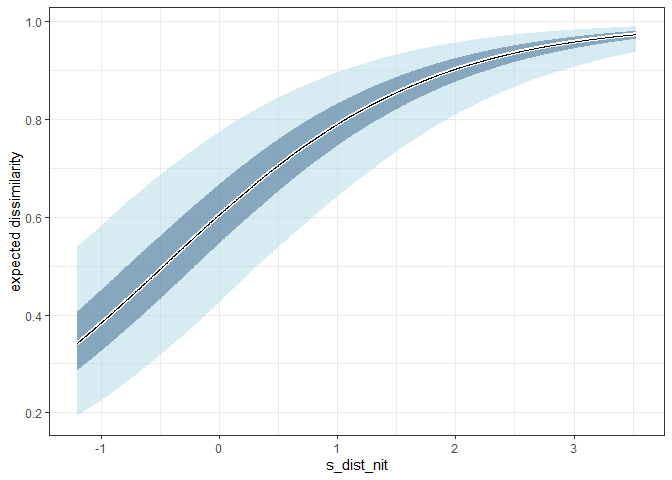
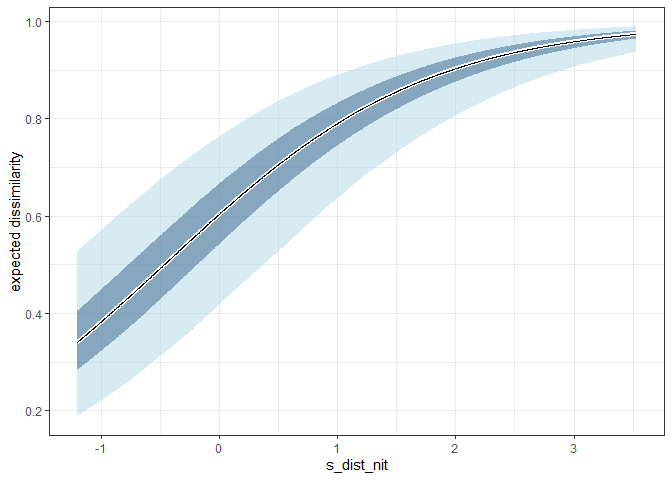
fiz readme

diff --git a/README.md b/README.md
@@ -1,13 +1,13 @@
 Untitled
 ================
 
-# Fitting GDUMs in greta
+# Fitting GDUMs in `greta`
 
-Here we show how to fit and inspect Generalised Dissimilarity Uniqueness
-Models (DGUM) using greta. We provide some helper functions to construct
-the models and generate predictions.This scripts assumes that a folder
-named `functions` exists in the working directory with the helper
-functions provided [here](link).
+Here we show how to fit and inspect Generalized Dissimilarity Uniqueness
+Models (DGUM) using `greta`. We provide some helper functions to
+construct the models and generate predictions.This scripts assumes that
+a folder named `functions` exists in the working directory with the
+helper functions provided [here](link%20to%20DOI).
 
 ``` r
 # Load functions
@@ -39,9 +39,12 @@ Doubs river.
 
 ``` r
 # Load datasets
-doubs.spe <- read.csv('https://raw.githubusercontent.com/zdealveindy/anadat-r/master/data/DoubsSpe.csv', row.names = 1)
-doubs.env <- read.csv('https://raw.githubusercontent.com/zdealveindy/anadat-r/master/data/DoubsEnv.csv', row.names = 1)
-doubs.spa <- read.csv('https://raw.githubusercontent.com/zdealveindy/anadat-r/master/data/DoubsSpa.csv', row.names = 1)
+doubs.spe <- read.csv('https://raw.githubusercontent.com/zdealveindy/anadat-r/master/data/DoubsSpe.csv', 
+                      row.names = 1)
+doubs.env <- read.csv('https://raw.githubusercontent.com/zdealveindy/anadat-r/master/data/DoubsEnv.csv', 
+                      row.names = 1)
+doubs.spa <- read.csv('https://raw.githubusercontent.com/zdealveindy/anadat-r/master/data/DoubsSpa.csv', 
+                      row.names = 1)
 ```
 
 doubs.spe
@@ -106,13 +109,13 @@ in long format. Different options are available, including:
 
 - Methods available in `vegan::vegdist()`:
   `make_y_df(data, method = 'bray')`
-- Numerator-denominator versions of Sorensen and Jaccard indices:
+- Numerator-denominator versions of Sørensen-Dice and Jaccard indices:
   `make_y_df(data, method = 'jaccard', num_den = TRUE)`
 - Full matrix of shared and unshared species between samples:
   `make_y_df(data, method = 'abcd')`
 
-We generate different Y matrices to show how GDUM can handle different
-families
+We generate different matrices to show how GDUM can handle different
+response variables.
 
 ``` r
 Y_bin <- make_y_df(com = doubs.spe, method = 'sorensen', num_den = TRUE)
@@ -160,17 +163,17 @@ all.equal(X[,c('s1','s2')],Y_bin[,c('s1','s2')])
 
 ## Fitting models
 
-We provide a function (`fit_gdum()`) to help built GDUMs in `greta`. By
+We provide a function `fit_gdum()` to help built GDUMs in `greta`. By
 deafault, `fit_gdum()` uses uninformative priors that expect predictors
-to be scaled. In this example, we use nitrogen concentration as a
-pairwise predictor and dbo as a site-level effect.
+to be scaled. In this example, we use nitrogen (nit) concentration as a
+pairwise predictor and pH as a site-level effect.
 
 ``` r
 X$s_dist_nit <- scale(X$dist_nit)
-doubs.env$s_dbo <- scale(log(doubs.env$dbo))
+doubs.env$s_pH <- scale(doubs.env$pH)
 ```
 
-In addition, a design matrix `D` indicating which sites are ocmpared in
+In addition, a design matrix `D` indicating which sites are compared in
 each row is required to match dissimilarities with pairwise- and
 site-level predictor.
 
@@ -188,7 +191,7 @@ m_gaus <- fit_gdum(Y = Y_bray[,3], # Dissimilarities
          family = 'gaussian',
          link = 'identity',
          diss_formula = ~ s_dist_nit, # pairwise level formula 
-         site_formula = ~ dbo, # site level formula
+         site_formula = ~ s_pH, # site level formula
          warmup = 2000, # mcmc warm up
          n_samples = 4000, # samples taken after warm up
          Lmin = 15, 
@@ -223,45 +226,45 @@ coda::gelman.diag(m_gaus$draws)
     ## Potential scale reduction factors:
     ## 
     ##                 Point est. Upper C.I.
-    ## alpha                 1.01       1.02
-    ## SD_s                  1.00       1.01
-    ## sigma                 1.00       1.00
-    ## beta_s_dist_nit       1.00       1.00
-    ## lambda_dbo            1.01       1.02
-    ## e_s[1,1]              1.00       1.01
-    ## e_s[2,1]              1.01       1.02
-    ## e_s[3,1]              1.01       1.02
-    ## e_s[4,1]              1.01       1.02
-    ## e_s[5,1]              1.00       1.01
-    ## e_s[6,1]              1.01       1.03
-    ## e_s[7,1]              1.01       1.01
-    ## e_s[8,1]              1.01       1.03
-    ## e_s[9,1]              1.01       1.02
-    ## e_s[10,1]             1.01       1.02
-    ## e_s[11,1]             1.01       1.02
-    ## e_s[12,1]             1.01       1.02
-    ## e_s[13,1]             1.00       1.01
-    ## e_s[14,1]             1.01       1.02
-    ## e_s[15,1]             1.01       1.01
-    ## e_s[16,1]             1.01       1.01
-    ## e_s[17,1]             1.01       1.03
-    ## e_s[18,1]             1.01       1.02
-    ## e_s[19,1]             1.01       1.01
-    ## e_s[20,1]             1.00       1.01
-    ## e_s[21,1]             1.00       1.01
-    ## e_s[22,1]             1.02       1.06
-    ## e_s[23,1]             1.01       1.03
-    ## e_s[24,1]             1.01       1.03
-    ## e_s[25,1]             1.01       1.02
-    ## e_s[26,1]             1.01       1.02
-    ## e_s[27,1]             1.01       1.02
-    ## e_s[28,1]             1.01       1.02
-    ## e_s[29,1]             1.01       1.02
-    ## e_s[30,1]             1.02       1.05
+    ## alpha                    1       1.00
+    ## SD_s                     1       1.01
+    ## sigma                    1       1.00
+    ## beta_s_dist_nit          1       1.00
+    ## lambda_s_pH              1       1.00
+    ## e_s[1,1]                 1       1.00
+    ## e_s[2,1]                 1       1.00
+    ## e_s[3,1]                 1       1.01
+    ## e_s[4,1]                 1       1.00
+    ## e_s[5,1]                 1       1.00
+    ## e_s[6,1]                 1       1.00
+    ## e_s[7,1]                 1       1.00
+    ## e_s[8,1]                 1       1.00
+    ## e_s[9,1]                 1       1.00
+    ## e_s[10,1]                1       1.00
+    ## e_s[11,1]                1       1.00
+    ## e_s[12,1]                1       1.00
+    ## e_s[13,1]                1       1.00
+    ## e_s[14,1]                1       1.00
+    ## e_s[15,1]                1       1.00
+    ## e_s[16,1]                1       1.00
+    ## e_s[17,1]                1       1.00
+    ## e_s[18,1]                1       1.00
+    ## e_s[19,1]                1       1.01
+    ## e_s[20,1]                1       1.00
+    ## e_s[21,1]                1       1.01
+    ## e_s[22,1]                1       1.00
+    ## e_s[23,1]                1       1.00
+    ## e_s[24,1]                1       1.00
+    ## e_s[25,1]                1       1.00
+    ## e_s[26,1]                1       1.00
+    ## e_s[27,1]                1       1.00
+    ## e_s[28,1]                1       1.00
+    ## e_s[29,1]                1       1.00
+    ## e_s[30,1]                1       1.00
     ## 
     ## Multivariate psrf
     ## 
-    ## 1.04
+    ## 1.01
 
 In our case, all values are relatively small ($\geq 1.01$) indicating
 that chains have succesfully converged.
@@ -273,12 +276,12 @@ parameter
 summary(m_gaus$draws)[[1]][1:5,]
 ```
 
-    ##                         Mean          SD     Naive SE Time-series SE
-    ## alpha            0.642809431 0.084567313 6.685633e-04   4.539311e-03
-    ## SD_s             0.135790236 0.021235703 1.678830e-04   5.755833e-04
-    ## sigma            0.187553460 0.006634300 5.244875e-05   6.845538e-05
-    ## beta_s_dist_nit  0.167638521 0.013465504 1.064542e-04   1.473987e-04
-    ## lambda_dbo      -0.001445939 0.006861546 5.424529e-05   2.517917e-04
+    ##                        Mean          SD     Naive SE Time-series SE
+    ## alpha           0.630403872 0.050203882 3.968965e-04   5.891248e-04
+    ## SD_s            0.134939475 0.020694808 1.636068e-04   2.694513e-04
+    ## sigma           0.187602791 0.006595838 5.214468e-05   8.003544e-05
+    ## beta_s_dist_nit 0.167340772 0.013244816 1.047095e-04   1.723781e-04
+    ## lambda_s_pH     0.008054158 0.026125398 2.065394e-04   2.529993e-04
 
 - `sigma` is the standard deviation of the normally distributed
   residuals
@@ -304,7 +307,7 @@ m_beta <- fit_gdum(Y = Y_bray$diss2,
          family = 'beta',
          link = 'logit',
          diss_formula = ~ s_dist_nit,
-         site_formula = ~ dbo,
+         site_formula = ~ s_pH,
          warmup = 2000,
          n_samples = 4000,
          Lmin = 15,
@@ -315,12 +318,12 @@ m_beta <- fit_gdum(Y = Y_bray$diss2,
 summary(m_beta$draws)[[1]][1:5,]
 ```
 
-    ##                        Mean         SD     Naive SE Time-series SE
-    ## alpha           0.602169670 0.45007733 0.0035581738   0.0099360090
-    ## SD_s            0.815576113 0.12120560 0.0009582144   0.0016163943
-    ## phi             4.987557346 0.34278004 0.0027099141   0.0033175547
-    ## beta_s_dist_nit 0.811409197 0.06673688 0.0005276014   0.0006406695
-    ## lambda_dbo      0.006004119 0.03792907 0.0002998556   0.0006199874
+    ##                       Mean         SD     Naive SE Time-series SE
+    ## alpha           0.65803477 0.29297989 0.0023162094   0.0036251243
+    ## SD_s            0.81557566 0.12069991 0.0009542166   0.0015750909
+    ## phi             4.97880531 0.34467349 0.0027248832   0.0068935729
+    ## beta_s_dist_nit 0.81264265 0.06763226 0.0005346799   0.0006433403
+    ## lambda_s_pH     0.04301759 0.15374221 0.0012154389   0.0015254916
 
 Instead of `sigma`, `phi` is the scale parameter of the beta
 distribution. The larger the value of `phi`, the narrower the
@@ -342,7 +345,7 @@ m_bin <- fit_gdum(Y = Y_bin$num_sor, # Dissimilarity (numerator: b + c)
          family = 'binomial',
          link = 'logit',
          diss_formula = ~ s_dist_nit,
-         site_formula = ~ dbo,
+         site_formula = ~ s_pH,
          warmup = 2000,
          n_samples = 4000,
          Lmin = 10,
@@ -353,21 +356,18 @@ m_bin <- fit_gdum(Y = Y_bin$num_sor, # Dissimilarity (numerator: b + c)
 summary(m_bin$draws)[[1]][1:4,]
 ```
 
-    ##                      Mean         SD     Naive SE Time-series SE
-    ## alpha           0.4830235 0.59770395 0.0047252646   0.0514787893
-    ## SD_s            1.3323207 0.19778360 0.0015636167   0.0076574601
-    ## beta_s_dist_nit 0.9538962 0.04013922 0.0003173284   0.0006318867
-    ## lambda_dbo      0.0134385 0.05770977 0.0004562358   0.0038424096
+    ##                       Mean         SD     Naive SE Time-series SE
+    ## alpha           0.59733609 0.44307789 0.0035028383   0.0245509368
+    ## SD_s            1.33190685 0.20943654 0.0016557413   0.0070029789
+    ## beta_s_dist_nit 0.95363949 0.04059751 0.0003209515   0.0005036378
+    ## lambda_s_pH     0.07504937 0.24392231 0.0019283752   0.0098507196
 
-The binomial distribution does not contain any scale parameter because a
-specific relationship between the variance, and the number of trials
-(denominator), and the probability of success (estimated dissimilarity)
-is expected.
+The binomial distribution does not contain any scale parameter.
 
 #### Beta binomial distribution
 
-The beta-binomial distribution can be useful when the data is over- or
-under-dispersed compared to the binomial distribution.
+The beta-binomial distribution can be useful when the data is
+overdispersed compared to the binomial distribution.
 
 ``` r
 m_bbin <- fit_gdum(Y = Y_bin$num_sor, # Dissimilarity matrix (numerator: b + c)
@@ -378,7 +378,7 @@ m_bbin <- fit_gdum(Y = Y_bin$num_sor, # Dissimilarity matrix (numerator: b + c)
          family = 'betabinomial',
          link = 'logit',
          diss_formula = ~ s_dist_nit,
-         site_formula = ~ s_dbo,
+         site_formula = ~ s_pH,
          warmup = 2000,
          n_samples = 4000,
          Lmin = 10,
@@ -389,8 +389,8 @@ m_bbin <- fit_gdum(Y = Y_bin$num_sor, # Dissimilarity matrix (numerator: b + c)
 
     ## 
 
-    ##     warmup                                           0/2000 | eta:  ?s              warmup =                                        50/2000 | eta:  1m              warmup ==                                      100/2000 | eta: 41s              warmup ===                                     150/2000 | eta: 35s              warmup ====                                    200/2000 | eta: 31s              warmup =====                                   250/2000 | eta: 29s              warmup ======                                  300/2000 | eta: 28s              warmup =======                                 350/2000 | eta: 27s              warmup ========                                400/2000 | eta: 25s              warmup =========                               450/2000 | eta: 24s              warmup ==========                              500/2000 | eta: 23s              warmup ==========                              550/2000 | eta: 22s              warmup ===========                             600/2000 | eta: 22s              warmup ============                            650/2000 | eta: 21s              warmup =============                           700/2000 | eta: 20s              warmup ==============                          750/2000 | eta: 19s              warmup ===============                         800/2000 | eta: 18s              warmup ================                        850/2000 | eta: 17s | <1% bad    warmup =================                       900/2000 | eta: 17s | <1% bad    warmup ==================                      950/2000 | eta: 16s | <1% bad    warmup ===================                    1000/2000 | eta: 15s | <1% bad    warmup ====================                   1050/2000 | eta: 14s | <1% bad    warmup =====================                  1100/2000 | eta: 14s | <1% bad    warmup ======================                 1150/2000 | eta: 13s | <1% bad    warmup =======================                1200/2000 | eta: 12s | <1% bad    warmup ========================               1250/2000 | eta: 11s | <1% bad    warmup =========================              1300/2000 | eta: 10s | <1% bad    warmup ==========================             1350/2000 | eta: 10s | <1% bad    warmup ===========================            1400/2000 | eta:  9s | <1% bad    warmup ============================           1450/2000 | eta:  8s | <1% bad    warmup ============================           1500/2000 | eta:  7s | <1% bad    warmup =============================          1550/2000 | eta:  7s | <1% bad    warmup ==============================         1600/2000 | eta:  6s | <1% bad    warmup ===============================        1650/2000 | eta:  5s | <1% bad    warmup ================================       1700/2000 | eta:  4s | <1% bad    warmup =================================      1750/2000 | eta:  4s | <1% bad    warmup ==================================     1800/2000 | eta:  3s | <1% bad    warmup ===================================    1850/2000 | eta:  2s | <1% bad    warmup ====================================   1900/2000 | eta:  1s | <1% bad    warmup =====================================  1950/2000 | eta:  1s | <1% bad    warmup ====================================== 2000/2000 | eta:  0s | <1% bad
-    ##   sampling                                           0/4000 | eta:  ?s            sampling                                          50/4000 | eta:  1m            sampling =                                       100/4000 | eta:  1m            sampling =                                       150/4000 | eta:  1m            sampling ==                                      200/4000 | eta:  1m            sampling ==                                      250/4000 | eta:  1m            sampling ===                                     300/4000 | eta:  1m            sampling ===                                     350/4000 | eta:  1m            sampling ====                                    400/4000 | eta:  1m            sampling ====                                    450/4000 | eta:  1m            sampling =====                                   500/4000 | eta:  1m            sampling =====                                   550/4000 | eta:  1m            sampling ======                                  600/4000 | eta:  1m            sampling ======                                  650/4000 | eta:  1m            sampling =======                                 700/4000 | eta:  1m            sampling =======                                 750/4000 | eta:  1m            sampling ========                                800/4000 | eta:  1m            sampling ========                                850/4000 | eta:  1m            sampling =========                               900/4000 | eta:  1m            sampling =========                               950/4000 | eta:  1m            sampling ==========                             1000/4000 | eta:  1m            sampling ==========                             1050/4000 | eta: 50s            sampling ==========                             1100/4000 | eta: 49s            sampling ===========                            1150/4000 | eta: 48s            sampling ===========                            1200/4000 | eta: 47s            sampling ============                           1250/4000 | eta: 46s            sampling ============                           1300/4000 | eta: 45s            sampling =============                          1350/4000 | eta: 44s            sampling =============                          1400/4000 | eta: 43s            sampling ==============                         1450/4000 | eta: 43s            sampling ==============                         1500/4000 | eta: 42s            sampling ===============                        1550/4000 | eta: 41s            sampling ===============                        1600/4000 | eta: 40s            sampling ================                       1650/4000 | eta: 39s            sampling ================                       1700/4000 | eta: 38s            sampling =================                      1750/4000 | eta: 38s            sampling =================                      1800/4000 | eta: 37s            sampling ==================                     1850/4000 | eta: 36s            sampling ==================                     1900/4000 | eta: 36s            sampling ===================                    1950/4000 | eta: 35s            sampling ===================                    2000/4000 | eta: 34s            sampling ===================                    2050/4000 | eta: 33s            sampling ====================                   2100/4000 | eta: 32s            sampling ====================                   2150/4000 | eta: 31s            sampling =====================                  2200/4000 | eta: 30s            sampling =====================                  2250/4000 | eta: 29s            sampling ======================                 2300/4000 | eta: 29s            sampling ======================                 2350/4000 | eta: 28s            sampling =======================                2400/4000 | eta: 27s            sampling =======================                2450/4000 | eta: 26s            sampling ========================               2500/4000 | eta: 25s            sampling ========================               2550/4000 | eta: 24s            sampling =========================              2600/4000 | eta: 24s            sampling =========================              2650/4000 | eta: 23s            sampling ==========================             2700/4000 | eta: 22s            sampling ==========================             2750/4000 | eta: 21s            sampling ===========================            2800/4000 | eta: 20s            sampling ===========================            2850/4000 | eta: 19s            sampling ============================           2900/4000 | eta: 18s            sampling ============================           2950/4000 | eta: 18s            sampling ============================           3000/4000 | eta: 17s            sampling =============================          3050/4000 | eta: 16s            sampling =============================          3100/4000 | eta: 15s            sampling ==============================         3150/4000 | eta: 14s            sampling ==============================         3200/4000 | eta: 13s            sampling ===============================        3250/4000 | eta: 13s            sampling ===============================        3300/4000 | eta: 12s            sampling ================================       3350/4000 | eta: 11s            sampling ================================       3400/4000 | eta: 10s            sampling =================================      3450/4000 | eta:  9s            sampling =================================      3500/4000 | eta:  8s            sampling ==================================     3550/4000 | eta:  8s            sampling ==================================     3600/4000 | eta:  7s            sampling ===================================    3650/4000 | eta:  6s            sampling ===================================    3700/4000 | eta:  5s            sampling ====================================   3750/4000 | eta:  4s            sampling ====================================   3800/4000 | eta:  3s            sampling =====================================  3850/4000 | eta:  3s            sampling =====================================  3900/4000 | eta:  2s            sampling ====================================== 3950/4000 | eta:  1s            sampling ====================================== 4000/4000 | eta:  0s
+    ##     warmup                                           0/2000 | eta:  ?s              warmup =                                        50/2000 | eta:  1m              warmup ==                                      100/2000 | eta: 43s              warmup ===                                     150/2000 | eta: 37s              warmup ====                                    200/2000 | eta: 34s              warmup =====                                   250/2000 | eta: 31s              warmup ======                                  300/2000 | eta: 30s              warmup =======                                 350/2000 | eta: 29s              warmup ========                                400/2000 | eta: 28s              warmup =========                               450/2000 | eta: 26s              warmup ==========                              500/2000 | eta: 25s              warmup ==========                              550/2000 | eta: 24s              warmup ===========                             600/2000 | eta: 23s              warmup ============                            650/2000 | eta: 22s              warmup =============                           700/2000 | eta: 21s              warmup ==============                          750/2000 | eta: 21s              warmup ===============                         800/2000 | eta: 20s              warmup ================                        850/2000 | eta: 19s | <1% bad    warmup =================                       900/2000 | eta: 18s | <1% bad    warmup ==================                      950/2000 | eta: 17s | <1% bad    warmup ===================                    1000/2000 | eta: 16s | <1% bad    warmup ====================                   1050/2000 | eta: 15s | <1% bad    warmup =====================                  1100/2000 | eta: 14s | <1% bad    warmup ======================                 1150/2000 | eta: 14s | <1% bad    warmup =======================                1200/2000 | eta: 13s | <1% bad    warmup ========================               1250/2000 | eta: 12s | <1% bad    warmup =========================              1300/2000 | eta: 11s | <1% bad    warmup ==========================             1350/2000 | eta: 10s | <1% bad    warmup ===========================            1400/2000 | eta: 10s | <1% bad    warmup ============================           1450/2000 | eta:  9s | <1% bad    warmup ============================           1500/2000 | eta:  8s | <1% bad    warmup =============================          1550/2000 | eta:  7s | <1% bad    warmup ==============================         1600/2000 | eta:  6s | <1% bad    warmup ===============================        1650/2000 | eta:  6s | <1% bad    warmup ================================       1700/2000 | eta:  5s | <1% bad    warmup =================================      1750/2000 | eta:  4s | <1% bad    warmup ==================================     1800/2000 | eta:  3s | <1% bad    warmup ===================================    1850/2000 | eta:  2s | <1% bad    warmup ====================================   1900/2000 | eta:  2s | <1% bad    warmup =====================================  1950/2000 | eta:  1s | <1% bad    warmup ====================================== 2000/2000 | eta:  0s | <1% bad
+    ##   sampling                                           0/4000 | eta:  ?s            sampling                                          50/4000 | eta:  1m            sampling =                                       100/4000 | eta:  1m            sampling =                                       150/4000 | eta:  1m            sampling ==                                      200/4000 | eta:  1m            sampling ==                                      250/4000 | eta:  1m            sampling ===                                     300/4000 | eta:  1m            sampling ===                                     350/4000 | eta:  1m            sampling ====                                    400/4000 | eta:  1m            sampling ====                                    450/4000 | eta:  1m            sampling =====                                   500/4000 | eta:  1m            sampling =====                                   550/4000 | eta:  1m            sampling ======                                  600/4000 | eta:  1m            sampling ======                                  650/4000 | eta:  1m            sampling =======                                 700/4000 | eta:  1m            sampling =======                                 750/4000 | eta:  1m            sampling ========                                800/4000 | eta:  1m            sampling ========                                850/4000 | eta:  1m            sampling =========                               900/4000 | eta:  1m            sampling =========                               950/4000 | eta:  1m            sampling ==========                             1000/4000 | eta:  1m            sampling ==========                             1050/4000 | eta: 49s            sampling ==========                             1100/4000 | eta: 48s            sampling ===========                            1150/4000 | eta: 47s            sampling ===========                            1200/4000 | eta: 47s            sampling ============                           1250/4000 | eta: 46s            sampling ============                           1300/4000 | eta: 45s            sampling =============                          1350/4000 | eta: 44s            sampling =============                          1400/4000 | eta: 43s            sampling ==============                         1450/4000 | eta: 42s            sampling ==============                         1500/4000 | eta: 41s            sampling ===============                        1550/4000 | eta: 41s            sampling ===============                        1600/4000 | eta: 40s            sampling ================                       1650/4000 | eta: 39s            sampling ================                       1700/4000 | eta: 38s            sampling =================                      1750/4000 | eta: 37s            sampling =================                      1800/4000 | eta: 36s            sampling ==================                     1850/4000 | eta: 36s            sampling ==================                     1900/4000 | eta: 35s            sampling ===================                    1950/4000 | eta: 34s            sampling ===================                    2000/4000 | eta: 33s            sampling ===================                    2050/4000 | eta: 32s            sampling ====================                   2100/4000 | eta: 31s            sampling ====================                   2150/4000 | eta: 30s            sampling =====================                  2200/4000 | eta: 29s            sampling =====================                  2250/4000 | eta: 29s            sampling ======================                 2300/4000 | eta: 28s            sampling ======================                 2350/4000 | eta: 27s            sampling =======================                2400/4000 | eta: 26s            sampling =======================                2450/4000 | eta: 25s            sampling ========================               2500/4000 | eta: 25s            sampling ========================               2550/4000 | eta: 24s            sampling =========================              2600/4000 | eta: 23s            sampling =========================              2650/4000 | eta: 22s            sampling ==========================             2700/4000 | eta: 21s            sampling ==========================             2750/4000 | eta: 21s            sampling ===========================            2800/4000 | eta: 20s            sampling ===========================            2850/4000 | eta: 19s            sampling ============================           2900/4000 | eta: 18s            sampling ============================           2950/4000 | eta: 17s            sampling ============================           3000/4000 | eta: 17s            sampling =============================          3050/4000 | eta: 16s            sampling =============================          3100/4000 | eta: 15s            sampling ==============================         3150/4000 | eta: 14s            sampling ==============================         3200/4000 | eta: 13s            sampling ===============================        3250/4000 | eta: 12s            sampling ===============================        3300/4000 | eta: 12s            sampling ================================       3350/4000 | eta: 11s            sampling ================================       3400/4000 | eta: 10s            sampling =================================      3450/4000 | eta:  9s            sampling =================================      3500/4000 | eta:  8s            sampling ==================================     3550/4000 | eta:  7s            sampling ==================================     3600/4000 | eta:  7s            sampling ===================================    3650/4000 | eta:  6s            sampling ===================================    3700/4000 | eta:  5s            sampling ====================================   3750/4000 | eta:  4s            sampling ====================================   3800/4000 | eta:  3s            sampling =====================================  3850/4000 | eta:  2s            sampling =====================================  3900/4000 | eta:  2s            sampling ====================================== 3950/4000 | eta:  1s            sampling ====================================== 4000/4000 | eta:  0s
 
 ``` r
 bayesplot::mcmc_trace(m_bbin$draws, regex_pars = c('alpha','beta','lambda'))
@@ -402,12 +402,12 @@ bayesplot::mcmc_trace(m_bbin$draws, regex_pars = c('alpha','beta','lambda'))
 summary(m_bbin$draws)[[1]][1:5,]
 ```
 
-    ##                        Mean         SD     Naive SE Time-series SE
-    ## alpha            0.43541452 0.39168105 0.0030965105   0.0086048185
-    ## SD_s             1.13491801 0.18548142 0.0014663594   0.0031714993
-    ## phi              7.18693542 0.71577404 0.0056586907   0.0066424209
-    ## beta_s_dist_nit  0.90172565 0.07407277 0.0005855967   0.0006727613
-    ## lambda_s_dbo    -0.01755615 0.21035328 0.0016629887   0.0034938885
+    ##                       Mean         SD    Naive SE Time-series SE
+    ## alpha           0.43053924 0.39006455 0.003083731   0.0086472668
+    ## SD_s            1.13367058 0.17794240 0.001406758   0.0027695272
+    ## phi             7.17915318 0.71547145 0.005656298   0.0067491934
+    ## beta_s_dist_nit 0.90335260 0.07359366 0.000581809   0.0006544959
+    ## lambda_s_pH     0.05386084 0.20677573 0.001634706   0.0034388740
 
 ## Predictions and partial effects
 
@@ -421,7 +421,8 @@ from the fitted model using the `predict_gdum()` function.
 u_pred <- predict_gdum(m_gaus, response = 'uniqueness')
 ```
 
-We can compare those with the ones obtained with `adespatial::`
+We can compare those with the ones obtained with `adespatial::` and map
+the values across the river:
 
 ``` r
 u_pred <- data.frame(u_pred, lcbd = adespatial::LCBD.comp(vegan::vegdist(log1p(doubs.spe)))$LCBD)
@@ -473,8 +474,6 @@ ggplot(u_pred, aes(x = lcbd, y = `X50.`/sum(`X50.`))) +
 
 ![](README_files/figure-gfm/unnamed-chunk-24-1.png)<!-- -->
 
-And map the values in space
-
 ``` r
 ggplot(cbind(u_pred, doubs.spa) ,aes( x = x, y = y)) + 
   theme_void() +
@@ -487,7 +486,8 @@ ggplot(cbind(u_pred, doubs.spa) ,aes( x = x, y = y)) +
 ![](README_files/figure-gfm/unnamed-chunk-25-1.png)<!-- -->
 
 Similarly, we can obtain the expected $u$ values when the site-level
-random effect is set to 0
+random effect is set to 0, indicating the expected site uniqueness given
+the combination of predictors in each site.
 
 ``` r
 u_pred <- predict_gdum(m_gaus, response = 'uniqueness', re = FALSE)
@@ -502,7 +502,8 @@ ggplot(cbind(u_pred, doubs.spa) ,aes( x = x, y = y)) +
 
 ![](README_files/figure-gfm/unnamed-chunk-26-1.png)<!-- -->
 
-Or when controlling for the environmental gradient (`s_dist_nit`)
+Similarly, we can control for nitrogen concentration (`s_dist_nit`) to
+asses how this pairwise variable changes uniqueness estimates
 
 ``` r
 u_pred <- predict_gdum(m_gaus, response = 'uniqueness', D_new = D, W_new = doubs.env, re = TRUE)
@@ -519,8 +520,8 @@ ggplot(cbind(u_pred, doubs.spa) ,aes( x = x, y = y)) +
 
 ### Predict with new data
 
-It is often useful look to use predictions to visualize the effect of
-individual predictors. This can also be achieved with `predict_gdum()`.
+It is often useful to visualize the effect of individual predictors.
+This can also be achieved with `predict_gdum()`.
 
 ``` r
 # generate new data
@@ -529,7 +530,7 @@ D_new <- t(combn(n, 2)) # n pairwise combinations
 X_new <- data.frame(s_dist_nit = seq(min(X$s_dist_nit), 
                                      max(X$s_dist_nit), 
                                      length.out = nrow(D_new))) # Simulate pairwise predictors
-W_new <- data.frame(s_dbo = rep(mean(doubs.env$s_dbo), n)) # Simulate site-level predictor
+W_new <- data.frame(s_pH = rep(mean(doubs.env$s_pH), n)) # Simulate site-level predictor
 
 # Make predictions
 pred <- predict_gdum(fit = m_bbin, X_new = X_new, W_new = W_new, D_new = D_new, 
@@ -549,17 +550,17 @@ ggplot(cbind(pred, X_new), aes(x = s_dist_nit,y = `50%`)) +
 # generate new data
 n = 50
 D_new <- t(combn(n, 2)) # n pairwise combinations
-X_new <- data.frame(s_dist_nit = rep(mean(doubs.env$s_dbo),
+X_new <- data.frame(s_dist_nit = rep(mean(doubs.env$s_pH),
                                      length.out = nrow(D_new))) # Simulate pairwise predictors
-W_new <- data.frame(s_dbo = seq(min(doubs.env$s_dbo),max(doubs.env$s_dbo), length.out = n)) # Simulate site-level predictor
+W_new <- data.frame(s_pH = seq(min(doubs.env$s_pH),max(doubs.env$s_pH), length.out = n)) # Simulate site-level predictor
 
 # Make predictions
 pred <- predict_gdum(fit = m_bbin, X_new = X_new, W_new = W_new, D_new = D_new, 
                      re = FALSE, samples = 5000, response = 'uniqueness')
 
-ggplot(cbind(pred, W_new), aes(x = s_dbo,y = `50%`)) +
+ggplot(cbind(pred, W_new), aes(x = s_pH,y = `50%`)) +
   theme_bw() + 
-  ylab('expected dissimilarity') + 
+  ylab('expected uniqueness (u_i)') + 
   geom_ribbon(aes(ymin = `2.5%`,max = `97.5%`), fill = 'lightblue', alpha = 0.5) + 
   geom_ribbon(aes(ymin = `25%`,max = `75%`), fill = 'steelblue4', alpha = 0.5) + 
   geom_line(colour = 'white', linewidth = 1.5) +
